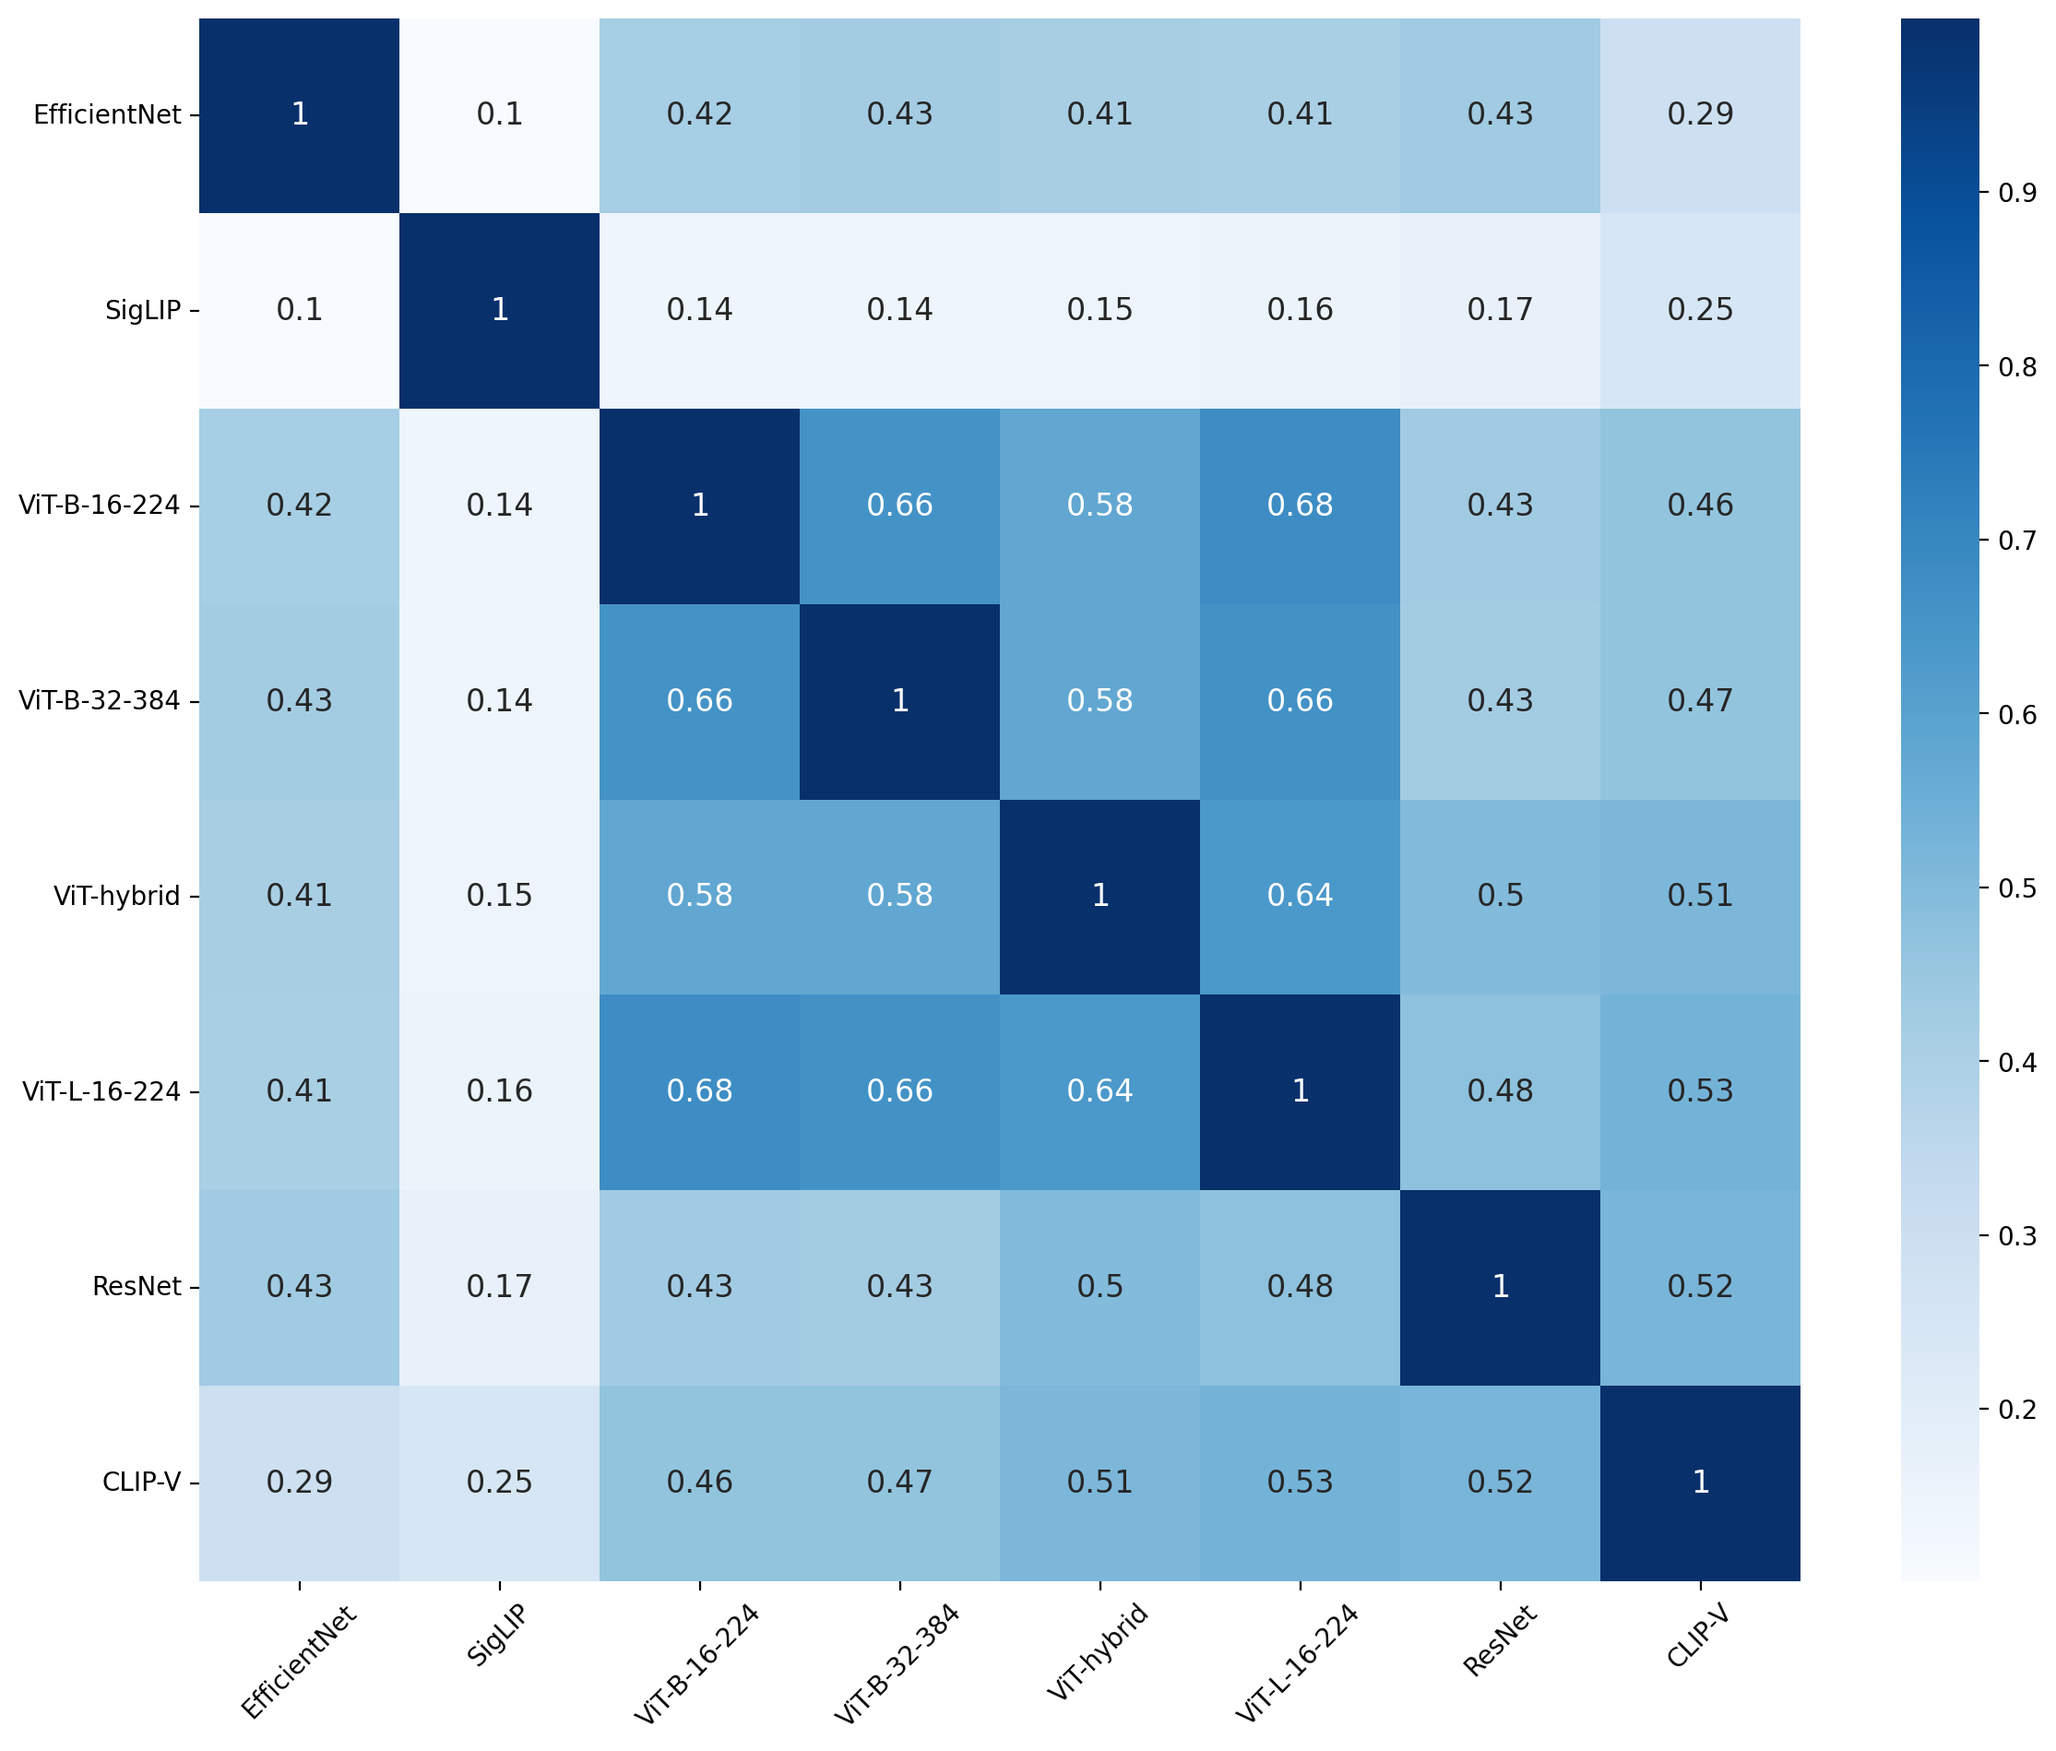
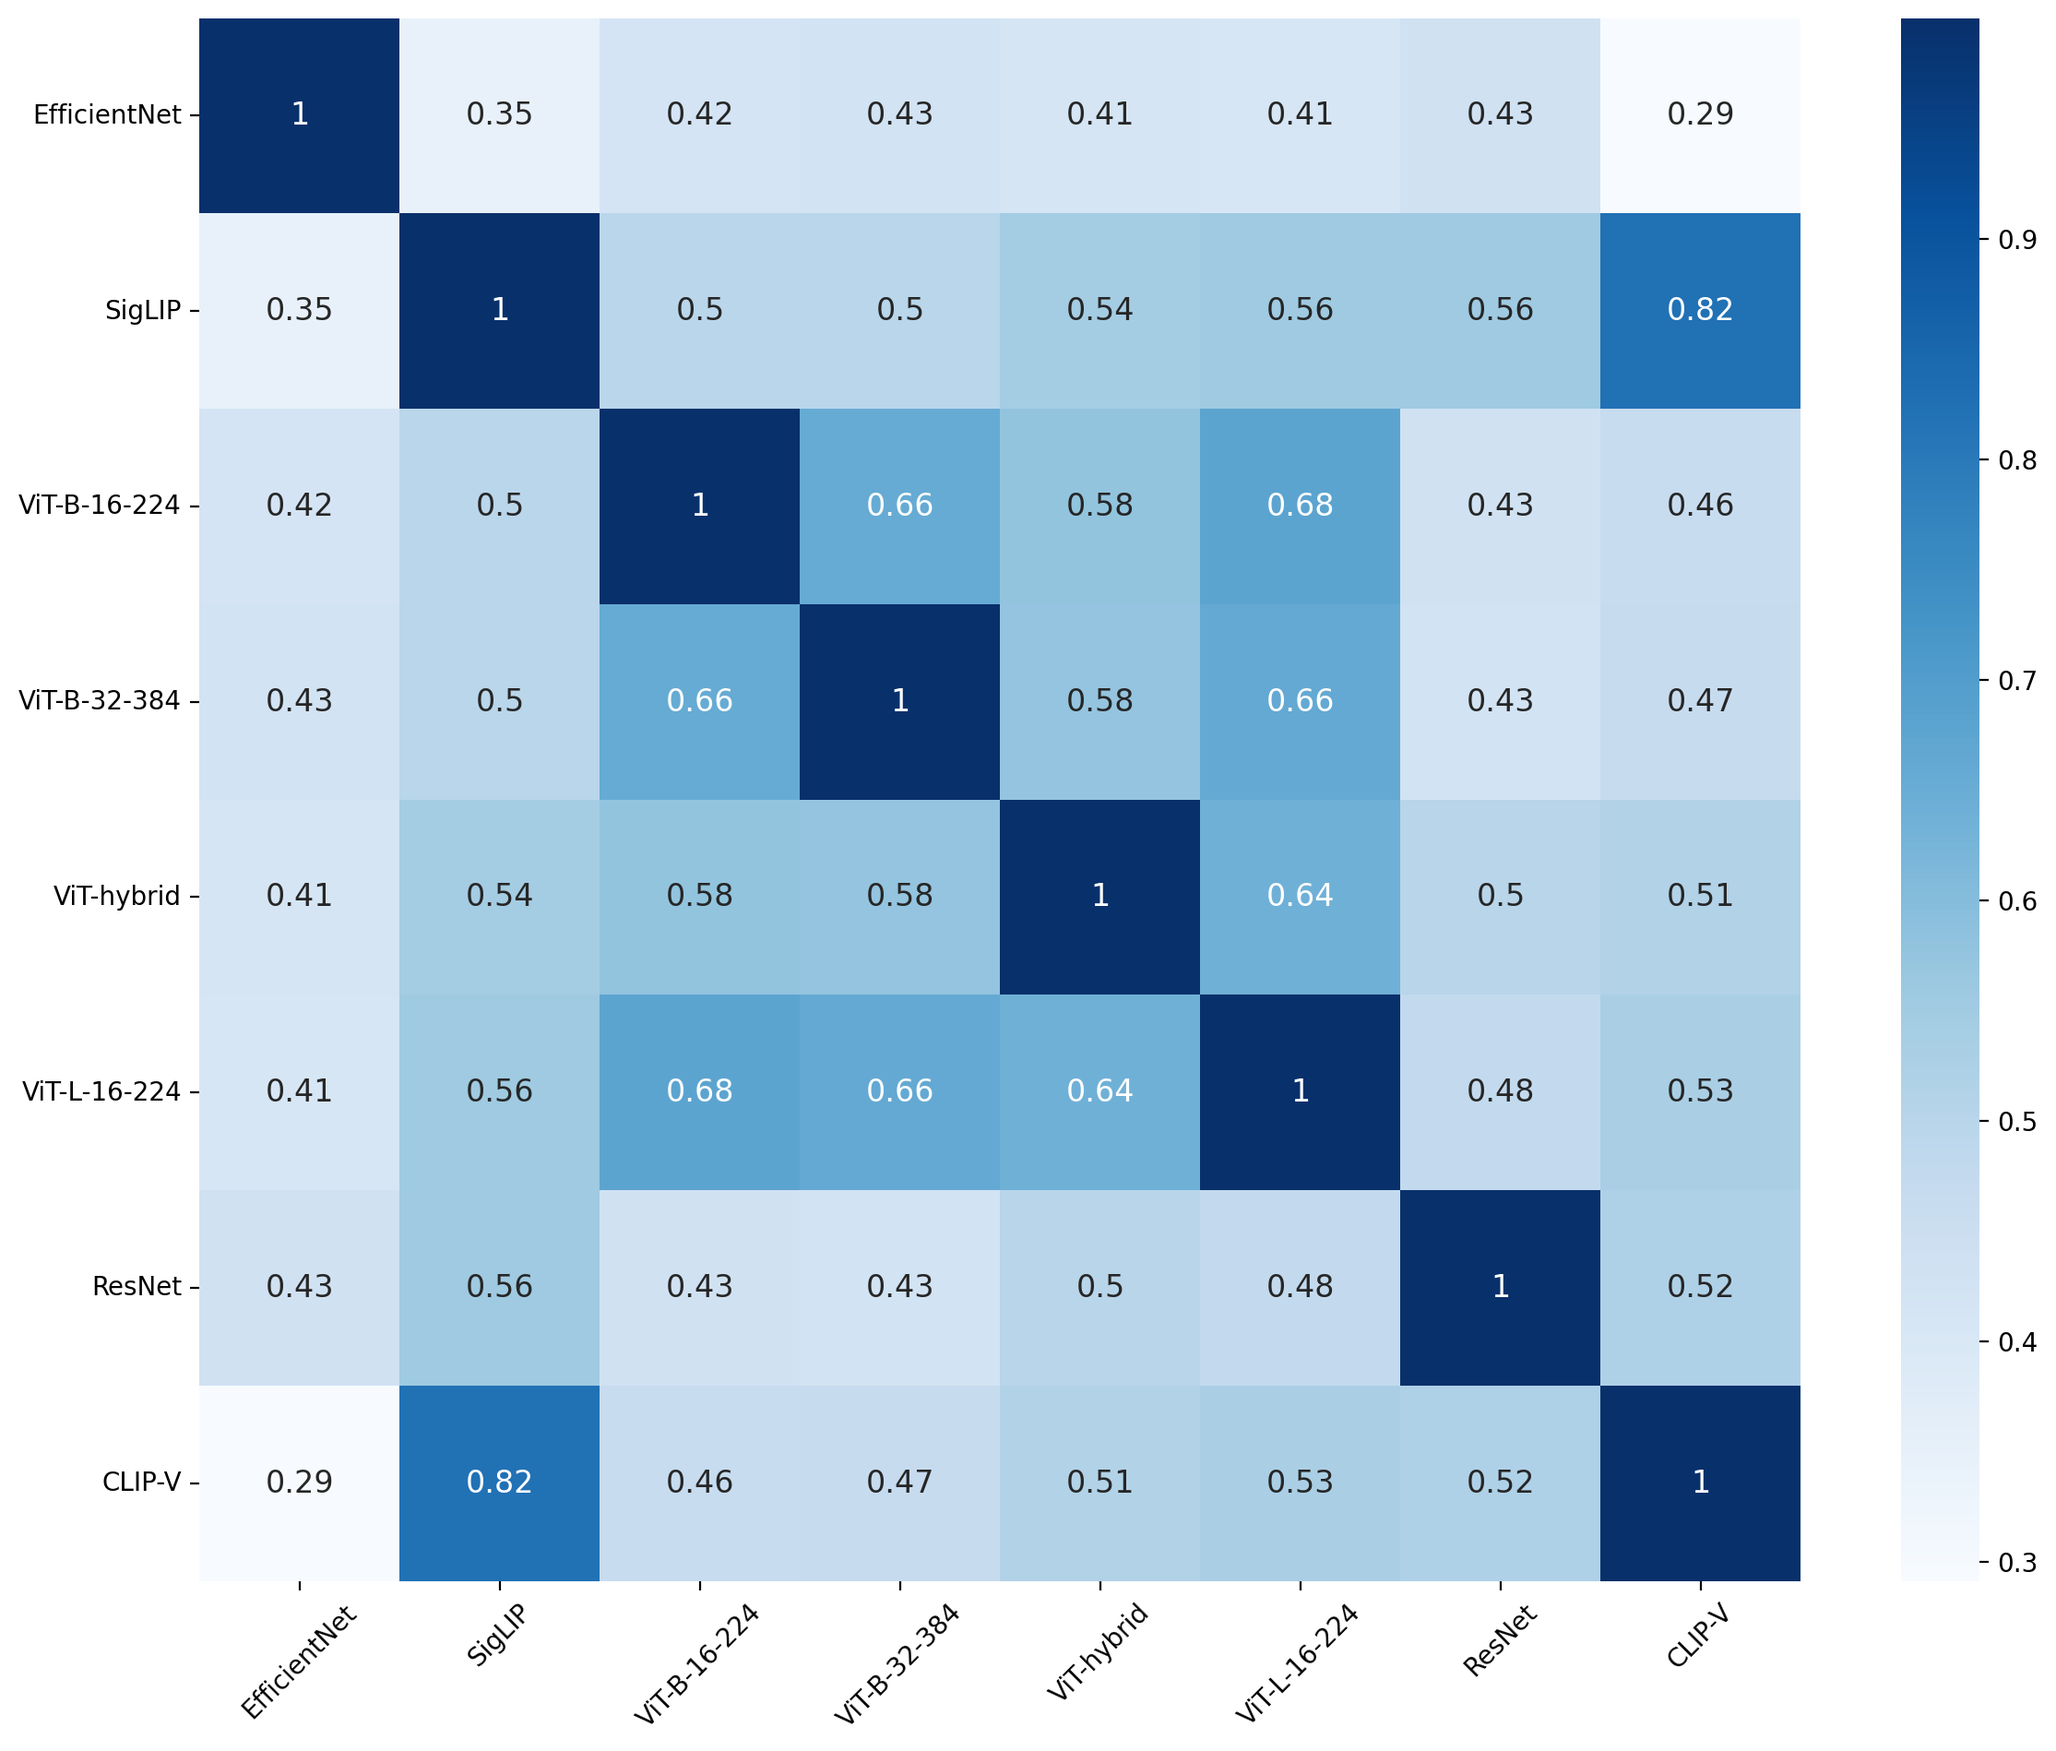
fix siglip

diff --git a/extract_representations.py b/extract_representations.py
@@ -32,7 +32,7 @@ with torch.no_grad():
         else:
             x=processor(x, return_tensors="pt")
         out = model(**x.to(device), output_hidden_states=True)
-        if conv:
+        if conv or 'siglip' in args.model:
             reps = out['pooler_output'].reshape(N, -1)
             print(reps.shape)
         elif 'clip-v' in args.model:
